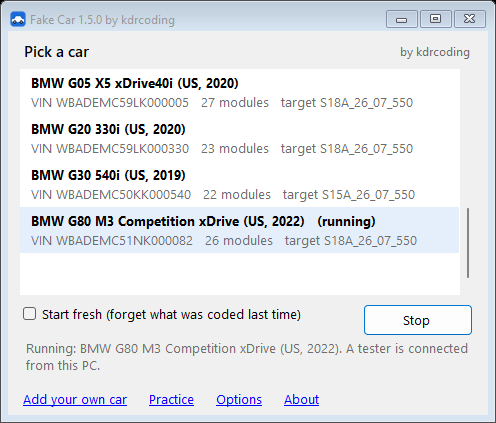
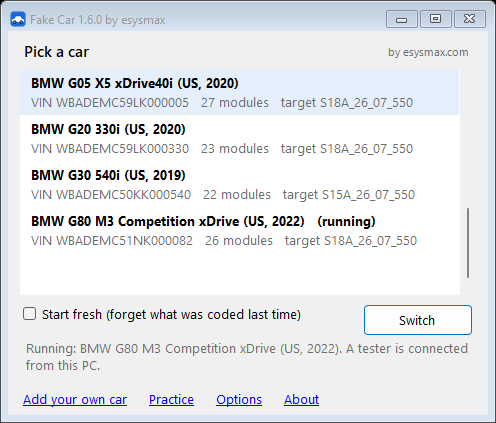
Credit is now "by esysmax" with a small esysmax.com link in the window, About, exe details, log, LICENSE and README

diff --git a/src/FakeCar/PickerForm.cs b/src/FakeCar/PickerForm.cs
@@ -37,6 +37,7 @@ sealed class PickerForm : Form
     Model? autoStart;
 
     const string Page = "https://github.com/kdrcoding/fake-car";
+    const string Website = "https://esysmax.com";
 
     public static string Version => typeof(PickerForm).Assembly.GetName().Version is { } v ? $"{v.Major}.{v.Minor}.{v.Build}" : "";
 
@@ -46,7 +47,7 @@ sealed class PickerForm : Form
     {
         this.carsFolder = carsFolder;
         allowShow = !background;
-        Text = $"Fake Car {Version} by kdrcoding";
+        Text = $"Fake Car {Version} by esysmax";
         Icon = AppIcon(32);
         Font = new Font("Segoe UI", 9.5f);
         ClientSize = new Size(480, 384);
@@ -84,7 +85,9 @@ sealed class PickerForm : Form
         bottom.SetColumnSpan(links, 2);
 
         var title = new Label { Text = "Pick a car", Dock = DockStyle.Fill, Padding = new Padding(12, 10, 0, 0), Font = new Font("Segoe UI Semibold", 11f) };
-        var byline = new Label { Text = "by kdrcoding", Dock = DockStyle.Right, AutoSize = true, Padding = new Padding(0, 13, 14, 0), Font = new Font("Segoe UI", 8.5f), ForeColor = SystemColors.GrayText };
+        // The credit, with a small link to the website on its name.
+        var byline = new LinkLabel { Text = "by esysmax.com", Dock = DockStyle.Right, AutoSize = true, Padding = new Padding(0, 13, 14, 0), Font = new Font("Segoe UI", 8.5f), ForeColor = SystemColors.GrayText, LinkColor = SystemColors.GrayText, ActiveLinkColor = SystemColors.GrayText, VisitedLinkColor = SystemColors.GrayText, LinkBehavior = LinkBehavior.HoverUnderline, LinkArea = new LinkArea(3, 11) };
+        byline.LinkClicked += (_, _) => Open(Website);
         var header = new Panel { Dock = DockStyle.Top, Height = 34 };
         header.Controls.Add(title);
         header.Controls.Add(byline);
@@ -274,8 +277,8 @@ sealed class PickerForm : Form
 
     void ShowAbout()
     {
-        var text = $"Fake Car {Version}\nby kdrcoding\n\nA pretend BMW for E-Sys: read and write the vehicle order, code, flash and read faults without a real car. Every VIN is made up.\n\n"
-            + "Free to use and to share unchanged. Changed versions may not be shared, and the \"by kdrcoding\" credit must stay.\n\n"
+        var text = $"Fake Car {Version}\nby esysmax (esysmax.com)\n\nA pretend BMW for E-Sys: read and write the vehicle order, code, flash and read faults without a real car. Every VIN is made up.\n\n"
+            + "Free to use and to share unchanged. Changed versions may not be shared, and the \"by esysmax\" credit must stay.\n\n"
             + "Not made by or connected with BMW AG.\n\nOpen the Fake Car page on GitHub?";
         if (MessageBox.Show(this, text, "About Fake Car", MessageBoxButtons.YesNo, MessageBoxIcon.Information) == DialogResult.Yes) Open(Page);
     }

diff --git a/src/FakeCar/Program.cs b/src/FakeCar/Program.cs
@@ -111,7 +111,7 @@ sealed class Log : IDisposable
     {
         Directory.CreateDirectory(Path.GetDirectoryName(Path.GetFullPath(path))!);
         writer = new StreamWriter(path, append: true) { AutoFlush = true };
-        writer.WriteLine($"Fake Car {PickerForm.Version} by kdrcoding, {DateTime.Now:yyyy-MM-dd}");
+        writer.WriteLine($"Fake Car {PickerForm.Version} by esysmax, {DateTime.Now:yyyy-MM-dd}");
     }
 
     public void Line(string text)

diff --git a/README.md b/README.md
@@ -4,7 +4,7 @@
 
 Use it to learn E-Sys, try a coding tool before it touches a real car, or record a video without a car and without showing a real VIN.
 
-**[Download the latest version](https://github.com/kdrcoding/fake-car/releases/latest)** · Free · Windows 10 and 11 · 11 car models · by kdrcoding
+**[Download the latest version](https://github.com/kdrcoding/fake-car/releases/latest)** · Free · Windows 10 and 11 · 11 car models · by [esysmax](https://esysmax.com)
 
 <img src="docs/fake-car-window.png" alt="The Fake Car window: a G80 M3 running, a tester connected from this PC" width="496">
 
@@ -199,6 +199,6 @@ jar cf builder\CarBuilder.jar -C classes .
 
 ## Licence
 
-Free to use and to share unchanged. Changed versions may not be shared, and the "by kdrcoding" credit must stay. See [LICENSE](LICENSE). Versions 1.0.0 to 1.2.0 were released under MIT.
+Free to use and to share unchanged. Changed versions may not be shared, and the "by esysmax" credit must stay. See [LICENSE](LICENSE). Versions 1.0.0 to 1.2.0 were released under MIT.
 
 Not made by or connected with BMW AG. BMW, E-Sys and ISTA are names of their owners.
